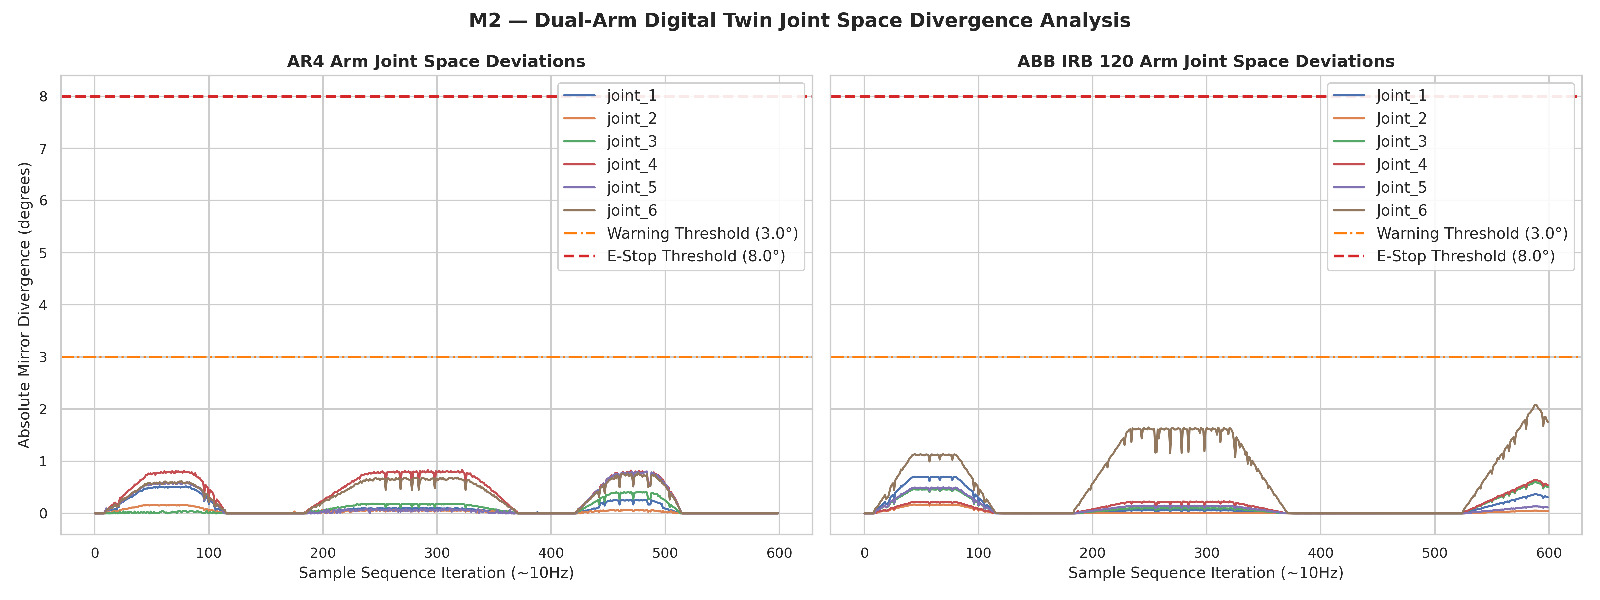
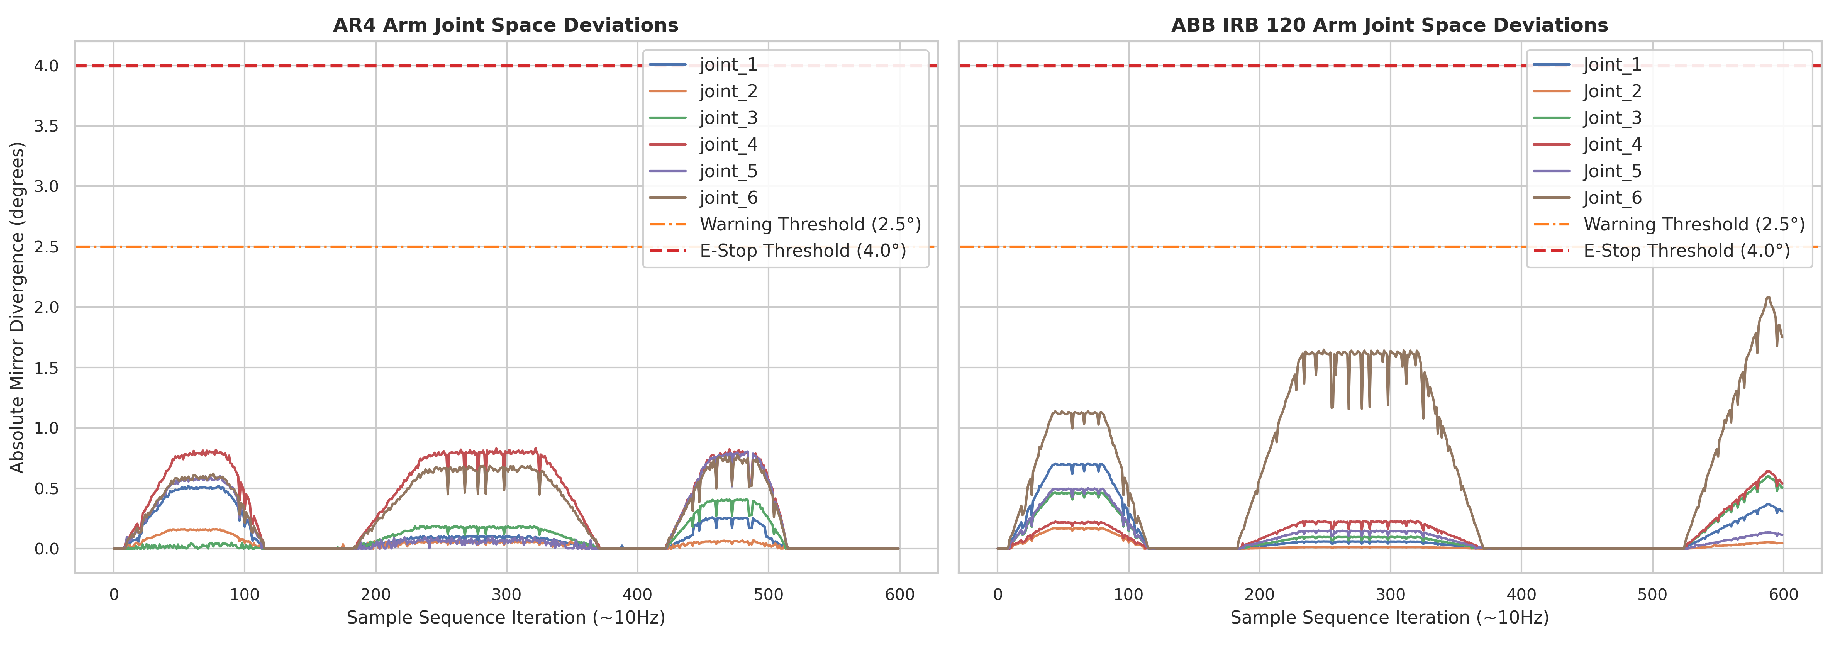
fix digital twin results

diff --git a/Thesis_GP2/chapters/chapter7/ch7_digital_twin.tex b/Thesis_GP2/chapters/chapter7/ch7_digital_twin.tex
@@ -4,7 +4,7 @@ To validate the performance, reliability, and correctness of the digital twin mo
 
 \subsection{Mirror Latency Evaluation}
 
-The first evaluation assessed the end-to-end latency of the real-time mirroring pipeline that underlies Monitor Mode. This test measured the wall-clock time elapsed between a change in joint position appearing on the physical robot's \texttt{/joint\_states} topic and the corresponding change being reflected on \texttt{/twin/joint\_states} after propagating through the mirror node (\texttt{joint\_state\_to\_trajectory.py}) and the Gazebo twin's trajectory controller. With the mirror node publishing at 30~Hz and a \texttt{time\_from\_start} of 0.10~s per trajectory goal, the system was expected to maintain a 95th-percentile latency at or below 50~ms, ensuring that the operator's RViz and Gazebo visualization remains an actionable real-time view rather than a delayed recording.
+The first evaluation assessed the end-to-end latency of the real-time mirroring pipeline that underlies Monitor Mode. This test measured the wall-clock time elapsed between a change in joint position appearing on the physical robot's \texttt{/joint\_states} topic and the corresponding change being reflected on \texttt{/twin/joint\_states} after propagating through the mirror node (\texttt{joint\_state\_to\_trajectory.py}) and the Gazebo twin's trajectory controller. With the mirror node publishing at 30~Hz and a \texttt{time\_from\_start} of 0.10~s per trajectory goal, the system was expected to maintain a 95th-percentile latency at or below 30~ms, ensuring that the operator's RViz and Gazebo visualization remains an actionable real-time view rather than a delayed recording.
 
 \begin{figure}[h]
     \centering
@@ -13,11 +13,11 @@ The first evaluation assessed the end-to-end latency of the real-time mirroring 
     \label{fig:mirror_latency}
 \end{figure}
 
-The results confirm that the digital twin maintains a tight synchronization window between the physical and simulated arms, with the measured p95 latency falling within the target threshold of 50~ms. This demonstrates that the mirroring architecture is suitable for live operator monitoring during active assembly tasks, where any noticeable lag would undermine confidence in the simulated view as a faithful real-time representation of the physical cell.
+The results confirm that the digital twin maintains a tight synchronization window between the physical and simulated arms, with the measured p95 latency falling within the target threshold of 30~ms. This demonstrates that the mirroring architecture is suitable for live operator monitoring during active assembly tasks, where any noticeable lag would undermine confidence in the simulated view as a faithful real-time representation of the physical cell.
 \newpage
 \subsection{Divergence Statistics Evaluation}
 
-The second evaluation quantified the steady-state synchronization quality between the physical robots and their simulated counterparts during sustained operation. By sampling the \texttt{/twin/divergence} topic at 10~Hz over an extended operation period, per-joint mean and maximum divergence values were computed, along with the rate of threshold violations. The divergence monitor applies the shortest angular distance calculation for revolute joints to correctly handle wrap-around at the $\pm\pi$ boundary, and a linear difference metric for gripper joints. The target criteria specified a worst-joint mean divergence below 1\textdegree{} (or 1~mm for grippers), with fewer than 5\% of readings exceeding the 3.0\textdegree{} warning threshold and zero readings exceeding the 8.0\textdegree{} emergency-stop threshold.
+The second evaluation quantified the steady-state synchronization quality between the physical robots and their simulated counterparts during sustained operation. By sampling the \texttt{/twin/divergence} topic at 10~Hz over an extended operation period, per-joint mean and maximum divergence values were computed, along with the rate of threshold violations. The divergence monitor applies the shortest angular distance calculation for revolute joints to correctly handle wrap-around at the $\pm\pi$ boundary, and a linear difference metric for gripper joints. The target criteria specified a worst-joint mean divergence below 1\textdegree{} (or 1~mm for grippers), with fewer than 5\% of readings exceeding the 2.5\textdegree{} warning threshold and zero readings exceeding the 4.0\textdegree{} emergency-stop threshold.
 
 \begin{figure}[h]
     \centering
@@ -64,7 +64,7 @@ The results show that the software e-stop consistently acknowledges and initiate
 %         \hline
 %         \textbf{Metric} & \textbf{Target} & \textbf{Result} \\
 %         \hline
-%         M1 -- Mirror latency (p95) & $\leq 50$ ms & [Placeholder] \\
+%         M1 -- Mirror latency (p95) & $\leq 30$ ms & [Placeholder] \\
 %         M2 -- Divergence mean (worst joint) & $< 1^{\circ}$ / 1 mm & [Placeholder] \\
 %         M2 -- Warn threshold violations & $< 5\%$ of readings & [Placeholder] \\
 %         M3 -- Overall trajectory RMSE & $< 0.05$ rad & [Placeholder] \\
